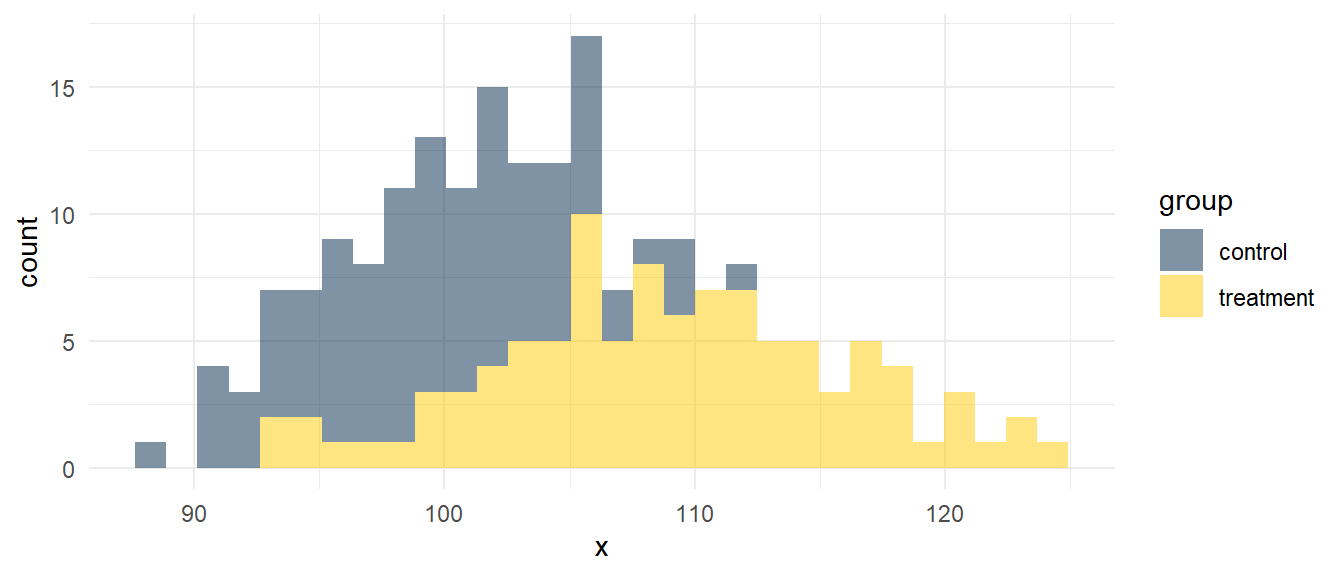
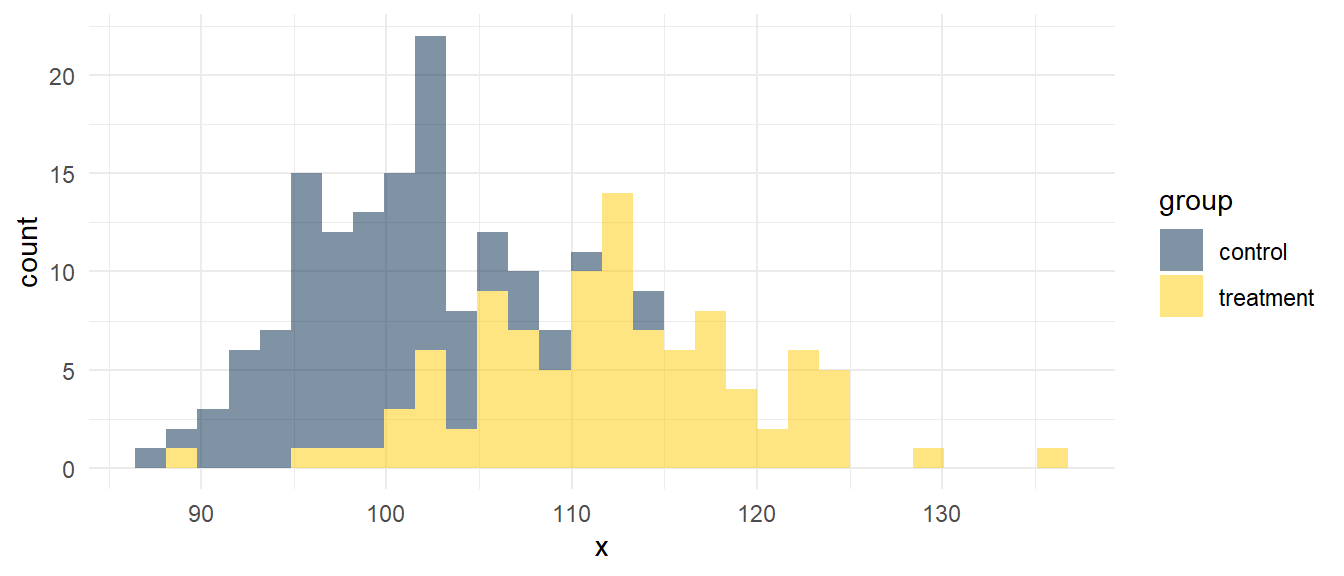
added keywords

diff --git a/docs/blog.html b/docs/blog.html
@@ -245,7 +245,7 @@ window.Quarto = {
 <!-- margin-sidebar -->
     <div id="quarto-margin-sidebar" class="sidebar margin-sidebar">
         
-    <h5 class="quarto-listing-category-title">Categories</h5><div class="quarto-listing-category category-default"><div class="category" data-category="">All <span class="quarto-category-count">(48)</span></div><div class="category" data-category="Bayes">Bayes <span class="quarto-category-count">(1)</span></div><div class="category" data-category="GIS">GIS <span class="quarto-category-count">(2)</span></div><div class="category" data-category="MICS">MICS <span class="quarto-category-count">(2)</span></div><div class="category" data-category="corporal punishment">corporal punishment <span class="quarto-category-count">(3)</span></div><div class="category" data-category="dataviz">dataviz <span class="quarto-category-count">(15)</span></div><div class="category" data-category="multilevel">multilevel <span class="quarto-category-count">(7)</span></div><div class="category" data-category="news">news <span class="quarto-category-count">(2)</span></div><div class="category" data-category="poetry">poetry <span class="quarto-category-count">(3)</span></div><div class="category" data-category="social justice">social justice <span class="quarto-category-count">(8)</span></div><div class="category" data-category="stats">stats <span class="quarto-category-count">(29)</span></div><div class="category" data-category="theory">theory <span class="quarto-category-count">(1)</span></div><div class="category" data-category="workflow">workflow <span class="quarto-category-count">(8)</span></div></div></div>
+    <h5 class="quarto-listing-category-title">Categories</h5><div class="quarto-listing-category category-default"><div class="category" data-category="">All <span class="quarto-category-count">(48)</span></div><div class="category" data-category="Bayes">Bayes <span class="quarto-category-count">(1)</span></div><div class="category" data-category="GIS">GIS <span class="quarto-category-count">(2)</span></div><div class="category" data-category="MICS">MICS <span class="quarto-category-count">(2)</span></div><div class="category" data-category="corporal punishment">corporal punishment <span class="quarto-category-count">(3)</span></div><div class="category" data-category="dataviz">dataviz <span class="quarto-category-count">(15)</span></div><div class="category" data-category="multilevel">multilevel <span class="quarto-category-count">(7)</span></div><div class="category" data-category="news">news <span class="quarto-category-count">(2)</span></div><div class="category" data-category="poetry">poetry <span class="quarto-category-count">(3)</span></div><div class="category" data-category="social justice">social justice <span class="quarto-category-count">(8)</span></div><div class="category" data-category="stats">stats <span class="quarto-category-count">(30)</span></div><div class="category" data-category="theory">theory <span class="quarto-category-count">(1)</span></div><div class="category" data-category="workflow">workflow <span class="quarto-category-count">(8)</span></div></div></div>
 <!-- main -->
 <main class="content quarto-banner-title-block column-page-left" id="quarto-document-content">
 
@@ -320,7 +320,7 @@ Andy Grogan-Kaylor
 </a>
 </div>
 </div>
-<div class="quarto-post image-right" data-index="1" data-listing-date-sort="1707109200000" data-listing-file-modified-sort="1707166243317" data-listing-date-modified-sort="NaN" data-listing-reading-time-sort="2" data-listing-word-count-sort="285">
+<div class="quarto-post image-right" data-index="1" data-categories="stats" data-listing-date-sort="1707109200000" data-listing-file-modified-sort="1707166599069" data-listing-date-modified-sort="NaN" data-listing-reading-time-sort="2" data-listing-word-count-sort="285">
 <div class="thumbnail">
 <p><a href="./posts/Cohens-d-calculator/index.html" class="no-external"></a></p><a href="./posts/Cohens-d-calculator/index.html" class="no-external">
 <p class="card-img-top"><img src="posts\Cohens-d-calculator\index_files\figure-html\unnamed-chunk-2-1.png"  class="thumbnail-image card-img"/></p>
@@ -332,6 +332,11 @@ Andy Grogan-Kaylor
 </h3>
 <div class="listing-subtitle">
 <a href="./posts/Cohens-d-calculator/index.html" class="no-external">Calculating and Visualizing Effect Sizes.</a>
+</div>
+<div class="listing-categories">
+<div class="listing-category" onclick="window.quartoListingCategory('stats'); return false;">
+stats
+</div>
 </div>
 <div class="listing-description">
 <a href="./posts/Cohens-d-calculator/index.html" class="no-external">Let’s imagine that you are studying an outcome like a <em>mental health outcome</em>.</a>

diff --git a/docs/posts/Cohens-d-calculator/index.html b/docs/posts/Cohens-d-calculator/index.html
@@ -212,7 +212,10 @@ pre > code.sourceCode > span > a:first-child::before { text-decoration: underlin
     <div class="quarto-title column-body">
       <h1 class="title">Cohen’s d Calculator</h1>
             <p class="subtitle lead">Calculating and Visualizing Effect Sizes.</p>
-                      </div>
+                                <div class="quarto-categories">
+                <div class="quarto-category">stats</div>
+              </div>
+                  </div>
   </div>
     
   
@@ -285,13 +288,13 @@ pre > code.sourceCode > span > a:first-child::before { text-decoration: underlin
     Welch Two Sample t-test
 
 data:  treatment and control
-t = 11.02, df = 177.13, p-value &lt; 0.00000000000000022
+t = 14.039, df = 172.33, p-value &lt; 0.00000000000000022
 alternative hypothesis: true difference in means is not equal to 0
 95 percent confidence interval:
-  7.655491 10.995427
+ 10.95156 14.53488
 sample estimates:
 mean of x mean of y 
-108.94704  99.62158 </code></pre>
+112.06563  99.32241 </code></pre>
 </div>
 </div>
 </section>
@@ -848,7 +851,7 @@ window.document.addEventListener("DOMContentLoaded", function (event) {
 });
 </script>
 </div> <!-- /content -->
-<script>var lightboxQuarto = GLightbox({"descPosition":"bottom","loop":false,"openEffect":"zoom","closeEffect":"zoom","selector":".lightbox"});
+<script>var lightboxQuarto = GLightbox({"closeEffect":"zoom","openEffect":"zoom","descPosition":"bottom","loop":false,"selector":".lightbox"});
 window.onload = () => {
   lightboxQuarto.on('slide_before_load', (data) => {
     const { slideIndex, slideNode, slideConfig, player, trigger } = data;
